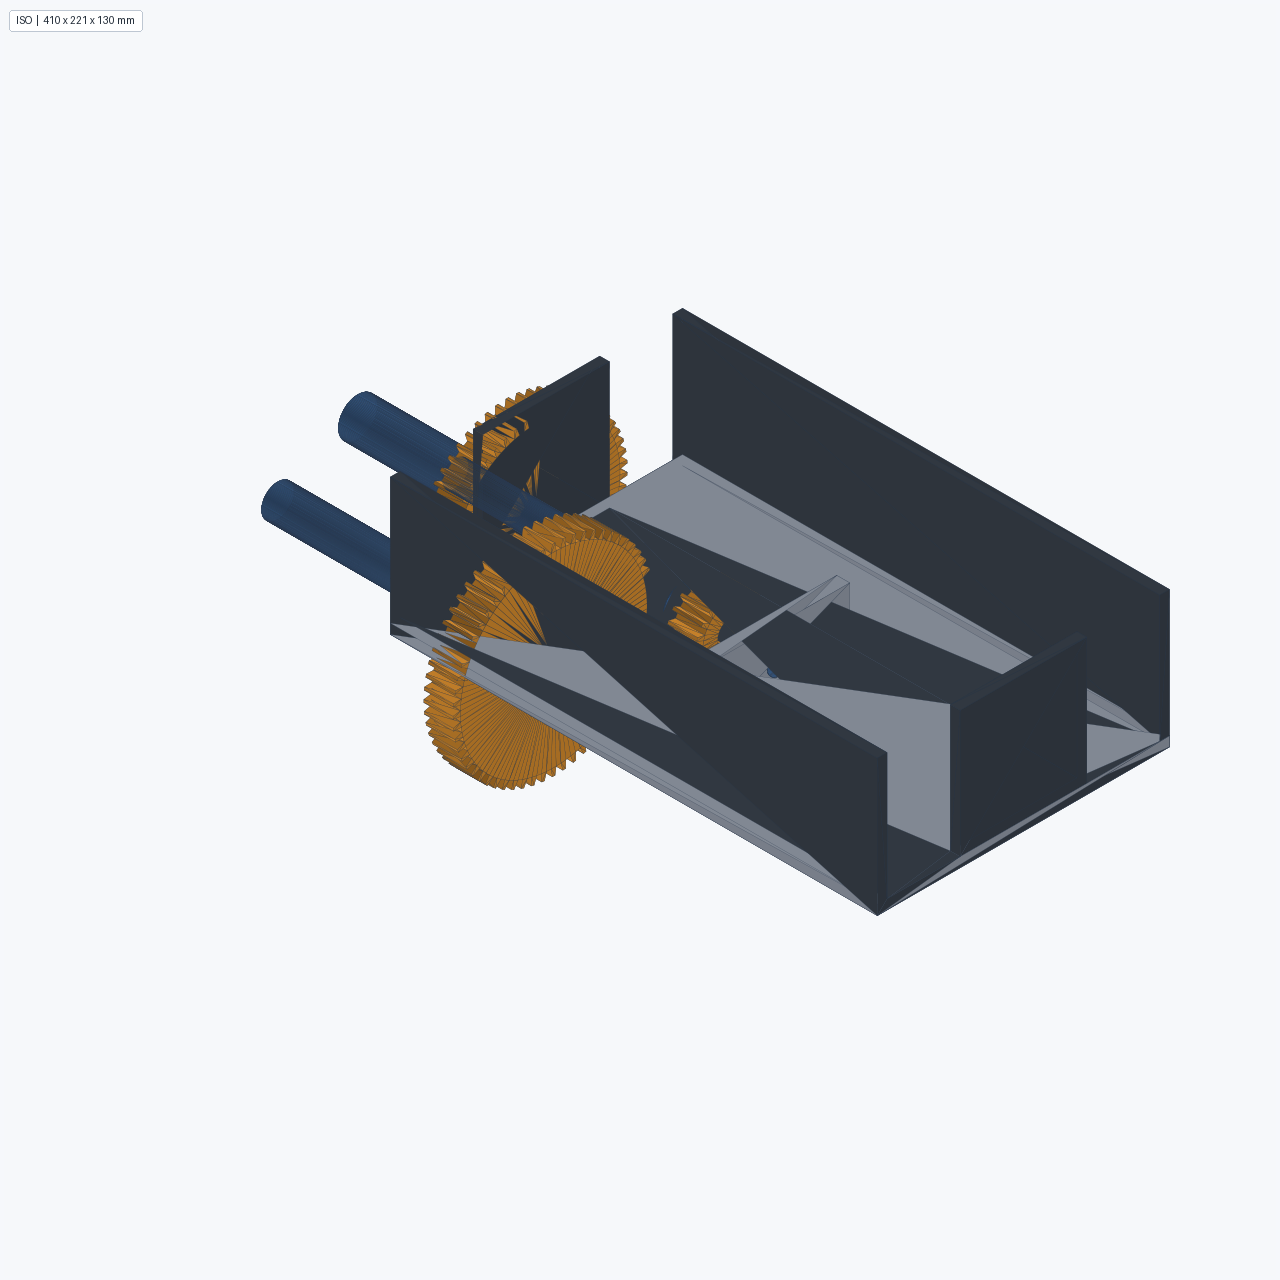
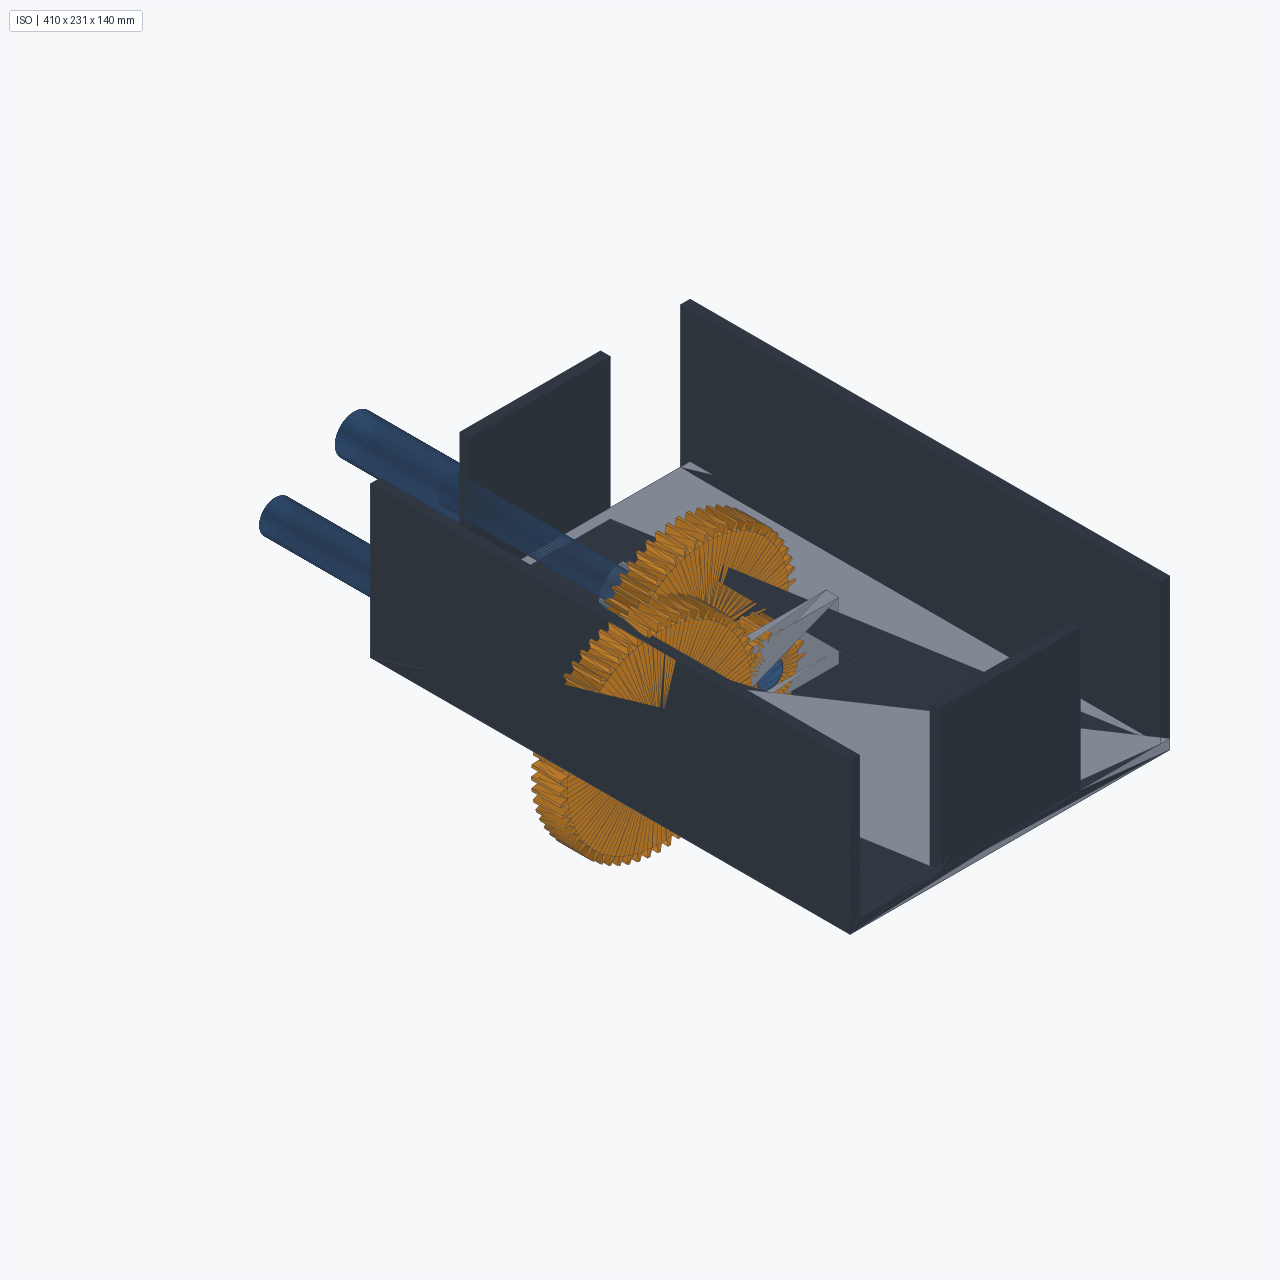
v2.8.2: fix gear X positions for proper meshing
啮合对 X 位置必须相同 (平行轴齿轮啮合条件), 用 axis_offset 调整:
  pair 1 (cd1=80): gear_input (X=0) ↔ gear_intermediate_large (X=0)
    input_shaft_axis offset=0, intermediate_shaft_axis offset=-40 (X_mid=40)
  pair 2 (cd2=72): gear_intermediate_small (X=40) ↔ gear_output (X=40)
    intermediate_shaft_axis offset=0 (X=40), output_shaft_axis offset=-20 (X_end=60)

housing 加到 300x200x100 (容纳 Y=70 + 大齿轮 radius 62 = 132)

diff --git a/mech_kernel/examples/14_gearbox.py b/mech_kernel/examples/14_gearbox.py
@@ -86,10 +86,10 @@ def compute_geometry() -> dict:
         "bore_intermediate": 20 + p["bore_clearance"],
         "bore_output": 24 + p["bore_clearance"],
 
-        # housing (足够大, 覆盖 input shaft -100~100 + output shaft -50~150)
+        # housing (足够大, 覆盖所有部件)
         "housing_length": 300.0,    # X: 覆盖 input + output 总 span
-        "housing_width": 180.0,     # Y: 容纳 intermediate Y=57 + gear radius 62 + buffer
-        "housing_height": 90.0,
+        "housing_width": 200.0,     # Y: 中间轴 Y=70 + 大齿轮 radius 62 = 132, 加 buffer → 200
+        "housing_height": 100.0,
         "wall_thickness": 6.0,
 
         # shafts (200mm, 居中)
@@ -445,16 +445,21 @@ def build_assembly(kernel: MechKernel, paths: dict, geom: dict, layout: dict) ->
         "mount_frame": "output_shaft_axis",
     })
 
-    # 6-9. 4 个齿轮（与轴同 frame, 不同 normal_offset 决定轴向位置）
-    # 啮合对 X 位置必须相同:
-    #   input gear ↔ intermediate_large (X=30)
-    #   intermediate_small ↔ output gear (X=90)
-    for gear_name, axis_frame, axis_offset in [
-        ("gear_input", "input_shaft_axis", 30.0),
-        ("gear_intermediate_large", "intermediate_shaft_axis", 30.0),
-        ("gear_intermediate_small", "intermediate_shaft_axis", 90.0),
-        ("gear_output", "output_shaft_axis", 90.0),
-    ]:
+    # 6-9. 4 个齿轮（与轴同 frame, 不同 axis_offset 决定 X 位置）
+    # 啮合对必须 X 相同 (平行轴齿轮啮合条件):
+    #   pair 1 (cd1=80): gear_input (X=0)  ↔  gear_intermediate_large (X=0)
+    #   pair 2 (cd2=72): gear_intermediate_small (X=40)  ↔  gear_output (X=40)
+    # axis_offset = gear_X - frame_X
+    # input_shaft_axis 中心 X=0
+    # intermediate_shaft_axis 中心 X=X_mid=40
+    # output_shaft_axis 中心 X=X_end=60
+    gear_positions = [
+        ("gear_input", "input_shaft_axis", 0.0),                    # X = 0
+        ("gear_intermediate_large", "intermediate_shaft_axis", -40.0),  # X = 0
+        ("gear_intermediate_small", "intermediate_shaft_axis", 0.0),  # X = 40
+        ("gear_output", "output_shaft_axis", -20.0),              # X = 40
+    ]
+    for gear_name, axis_frame, axis_offset in gear_positions:
         pos, _ = _placement_from_frame(
             kernel, axis_frame, uv=(0, 0), normal_offset=axis_offset,
             rotation=(90, (0, 1, 0)),
